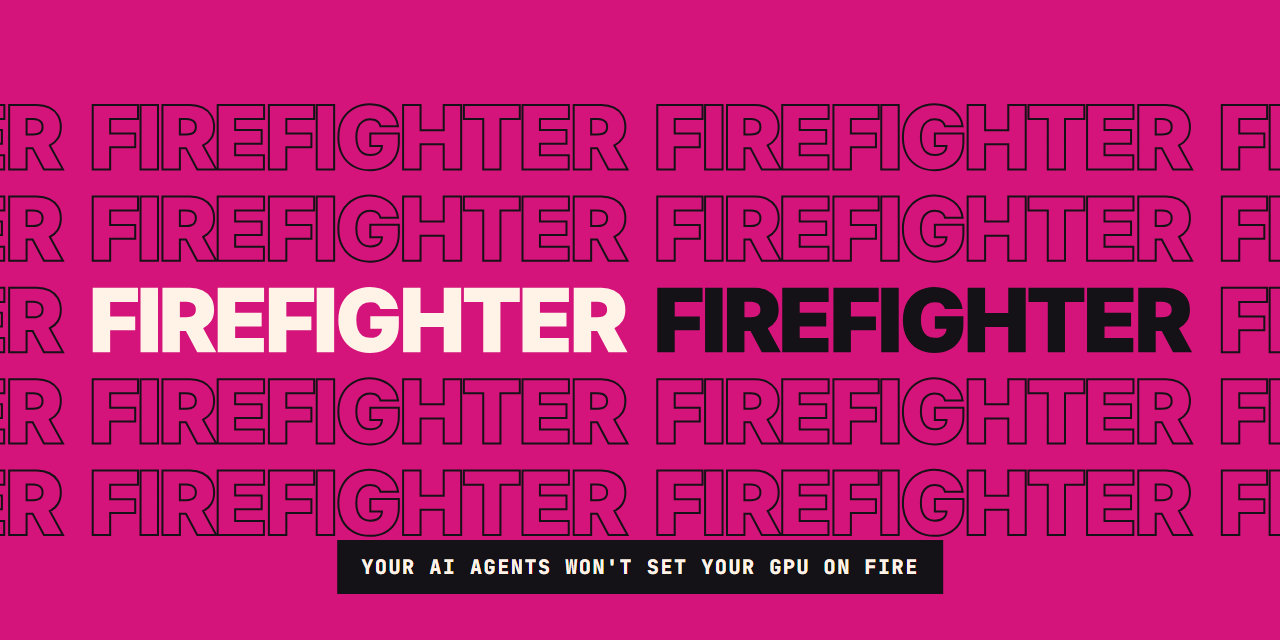
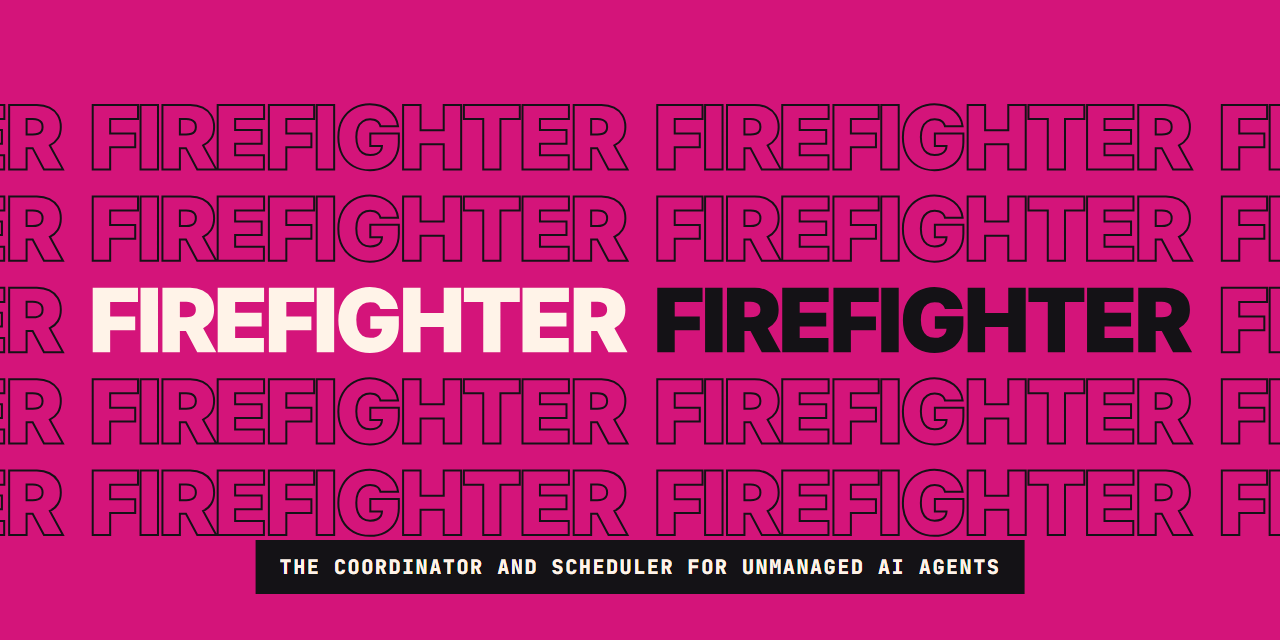
Brand: the coordinator and scheduler for unmanaged AI agents

Changed region(s): [[0.1875, 0.8438, 0.8125, 0.9375]]

diff --git a/docs/index.html b/docs/index.html
@@ -3,16 +3,16 @@
 <head>
 <meta charset="utf-8">
 <meta name="viewport" content="width=device-width, initial-scale=1">
-<title>firefighter: GPU, CPU &amp; RAM scheduler for AI coding agents (Claude Code, Codex, MCP)</title>
-<meta name="description" content="firefighter lets Claude Code, Codex, Gemini CLI, Cursor and other AI agents share one computer's GPU, VRAM, CPU and RAM. Job queue, market maker, MCP server, and you always come first. One-command install on Windows, macOS and Linux.">
+<title>firefighter: the coordinator and scheduler for unmanaged AI agents (Claude Code, Codex, MCP)</title>
+<meta name="description" content="firefighter is the coordinator and scheduler for unmanaged AI agents. It lets Claude Code, Codex, Gemini CLI, Cursor and other AI agents share one computer's GPU, VRAM, CPU, RAM and network. Job queue, market maker, MCP server, and you always come first. One-command install on Windows, macOS and Linux.">
 <meta name="keywords" content="AI agents GPU scheduler, Claude Code GPU, Codex GPU queue, MCP server GPU, local GPU job queue, VRAM scheduler, multi-agent resource manager, Windows GPU scheduler">
 <meta property="og:title" content="firefighter: your AI agents won't set your GPU on fire">
-<meta property="og:description" content="GPU/CPU/RAM scheduler + market maker for AI coding agents on one PC. One command. Windows, macOS, Linux.">
+<meta property="og:description" content="The coordinator and scheduler for unmanaged AI agents: GPU, CPU, RAM and network, one command, Windows, macOS, Linux.">
 <meta property="og:image" content="https://joshwright22.github.io/FIREFIGHTER/social-preview.png">
 <meta name="twitter:card" content="summary_large_image">
 <link rel="icon" href="icon.svg">
 <script type="application/ld+json">
-{"@context":"https://schema.org","@type":"SoftwareApplication","name":"firefighter","applicationCategory":"DeveloperApplication","operatingSystem":"Windows, macOS, Linux","offers":{"@type":"Offer","price":"0"},"description":"Local GPU, CPU and RAM scheduler, job queue and market maker for AI coding agents sharing one computer, with an MCP server. The human at the keyboard always comes first.","codeRepository":"https://github.com/JoshWright22/FIREFIGHTER","license":"https://opensource.org/licenses/MIT"}
+{"@context":"https://schema.org","@type":"SoftwareApplication","name":"firefighter","applicationCategory":"DeveloperApplication","operatingSystem":"Windows, macOS, Linux","offers":{"@type":"Offer","price":"0"},"description":"The coordinator and scheduler for unmanaged AI agents: a local GPU, CPU, RAM and network job queue and market maker for AI coding agents sharing one computer, with an MCP server. The human at the keyboard always comes first.","codeRepository":"https://github.com/JoshWright22/FIREFIGHTER","license":"https://opensource.org/licenses/MIT"}
 </script>
 <link rel="preconnect" href="https://fonts.googleapis.com"><link rel="preconnect" href="https://fonts.gstatic.com" crossorigin>
 <link href="https://fonts.googleapis.com/css2?family=Inter:wght@400;600;800&family=JetBrains+Mono:wght@400;700;800&display=swap" rel="stylesheet">
@@ -55,7 +55,7 @@
 <div class="poster"><img src="poster.svg" alt="firefighter"></div>
 <main>
   <h1>Your AI agents won't set<br>your <em>GPU</em> on fire.</h1>
-  <p class="sub"><b>firefighter</b> is a local GPU, CPU and RAM scheduler, job queue and market maker for AI coding agents sharing one computer. One command installs it on Windows, macOS or Linux. After that, every agent session queues its heavy work, sees what the others are doing, and gets out of the way when you need the machine.</p>
+  <p class="sub"><b>firefighter</b> is the coordinator and scheduler for unmanaged AI agents: a local job queue and market maker for the GPU, CPU, RAM and network that AI coding agents share on one computer. One command installs it on Windows, macOS or Linux. After that, every agent session queues its heavy work, sees what the others are doing, and gets out of the way when you need the machine.</p>
   <div class="agents"><span class="chip">Claude Code</span><span class="chip">Codex</span><span class="chip">Gemini CLI</span><span class="chip">Cursor</span><span class="chip">T3 Code</span><span class="chip">any MCP client</span></div>
 
   <div class="install">

diff --git a/assets/brand/social.html b/assets/brand/social.html
@@ -8,5 +8,5 @@
   .tag { position: absolute; left: 50%; bottom: 46px; transform: translateX(-50%); background: #141216; color: #fff3e8; font: 800 20px "JetBrains Mono", monospace; letter-spacing: .08em; text-transform: uppercase; padding: 14px 24px; white-space: nowrap; }
 </style></head><body>
   <img src="social.svg" width="1280" height="640" alt="">
-  <div class="tag">Your AI agents won't set your GPU on fire</div>
+  <div class="tag">The coordinator and scheduler for unmanaged AI agents</div>
 </body></html>

diff --git a/cmd/firefighter/main.go b/cmd/firefighter/main.go
@@ -35,7 +35,8 @@ import (
 
 var version = "dev"
 
-const usage = `firefighter: your AI agents won't set your GPU on fire. Or your CPU, your RAM, or your network.
+const usage = `firefighter: the coordinator and scheduler for unmanaged AI agents.
+Your AI agents won't set your GPU on fire. Or your CPU, your RAM, or your network.
 
   firefighter run [--gpu] [--net] --minutes N [--vram GB] [--ram GB] [--urgent] [--name NAME] -- <command...>
                                  wait for a turn, run the command here, print a receipt

diff --git a/README.md b/README.md
@@ -1,4 +1,4 @@
-<p align="center"><img src="assets/logo.svg" alt="firefighter: GPU, CPU and RAM scheduler for AI coding agents" width="640"></p>
+<p align="center"><img src="assets/logo.svg" alt="firefighter: the coordinator and scheduler for unmanaged AI agents" width="640"></p>
 
 <p align="center">
   <a href="https://github.com/JoshWright22/FIREFIGHTER/actions/workflows/ci.yml"><img src="https://github.com/JoshWright22/FIREFIGHTER/actions/workflows/ci.yml/badge.svg" alt="CI"></a>
@@ -10,7 +10,8 @@
 
 <h3 align="center">Your AI agents won't set your GPU on fire. Or your CPU, your RAM, or your network.</h3>
 
-<p align="center"><b>firefighter</b> is a local GPU, CPU and RAM scheduler, job queue and market maker for AI coding agents
+<p align="center"><b>firefighter</b> is the coordinator and scheduler for unmanaged AI agents: a local job queue and
+market maker that shares one computer's GPU, CPU, RAM and network among AI coding agents
 (<b>Claude Code, Codex, Gemini CLI, Cursor, Grok, OpenCode, Kimi, Antigravity, Copilot, T3 Code</b> and more) that share one computer.<br>
 One command to install, on <b>Windows, macOS and Linux</b>. After that, every agent session queues its heavy work, sees
 what the others are doing, and gets out of the way when you need the machine.</p>
